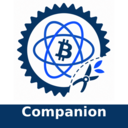
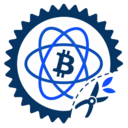
Use the edited artwork, and drop the Companion band
Paul reworked the source icon: the white square is gone and it now has a
real alpha channel, so it sits on the dark service list the way the coin
icons do instead of as a white tile.

The band goes with it. It was there to distinguish this from the official
Electrum server, and the pruning shears and branch already do that - this
is the one icon in the set that is unmistakable next to its upstream
counterpart without help. The band exists for icons that would otherwise
be identical to the official one, which is the two Knots coins and the
DATUM D.

That also removes the awkward part of the old version. The artwork was
opaque, so the alpha clip did nothing and the band spanned the full
width; it then had to be raised and the artwork shrunk to keep it off the
shears. None of that is needed now.

Checked at 128 and 56 px against the rest of the set before dropping it:
the shears are still legible at list size.

diff --git a/startos/versions/current.ts b/startos/versions/current.ts
@@ -1,7 +1,7 @@
 import { VersionInfo } from '@start9labs/start-sdk'
 
 export const current = VersionInfo.of({
-  version: '0.11.1:21',
+  version: '0.11.1:22',
   releaseNotes: {
     en_US: `The instructions now link to a full wallet-connection guide.
 
